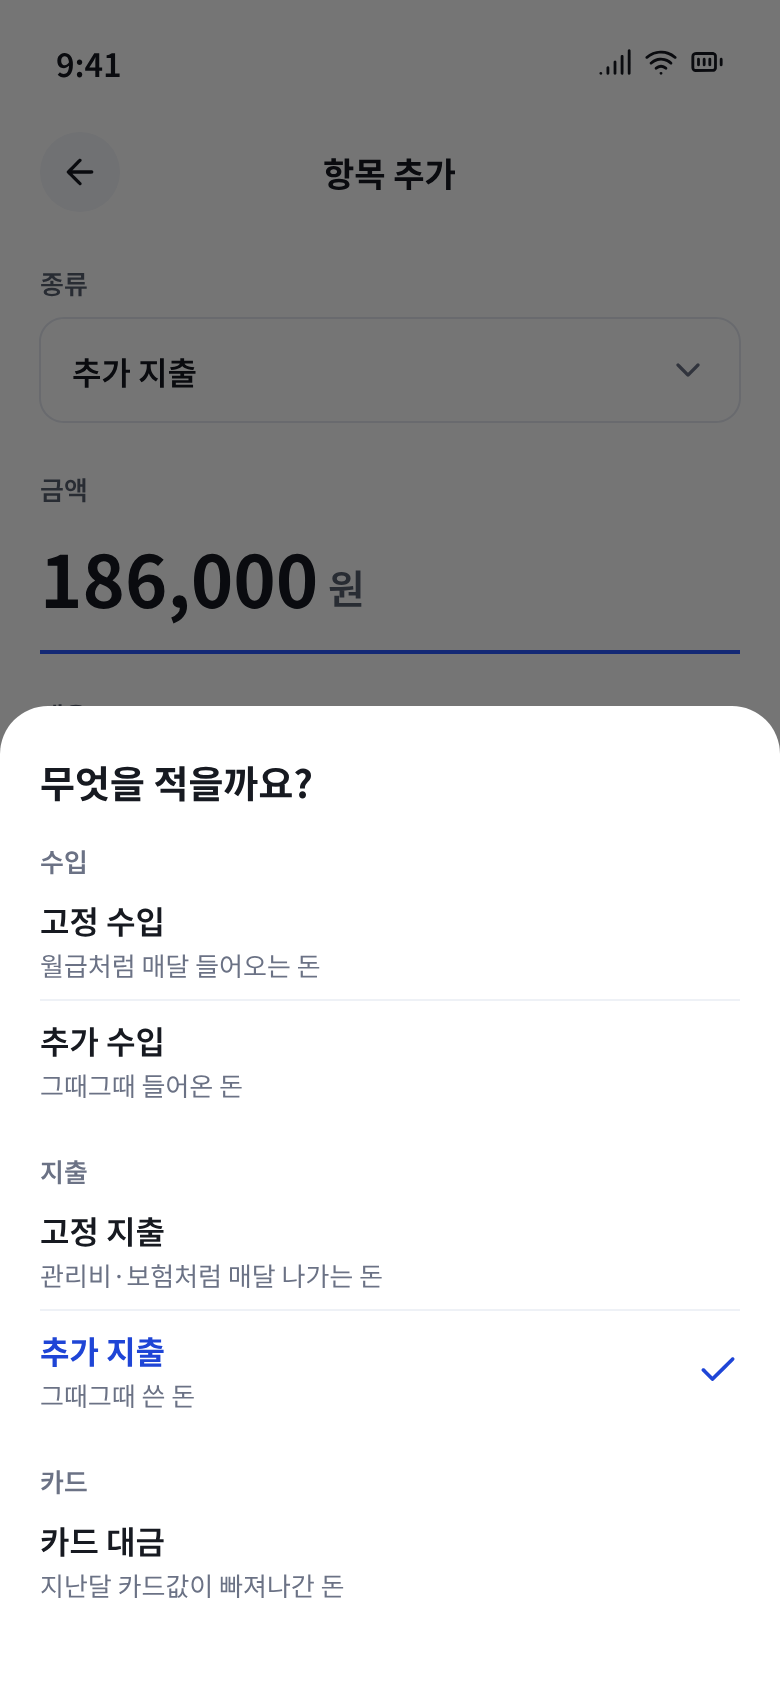
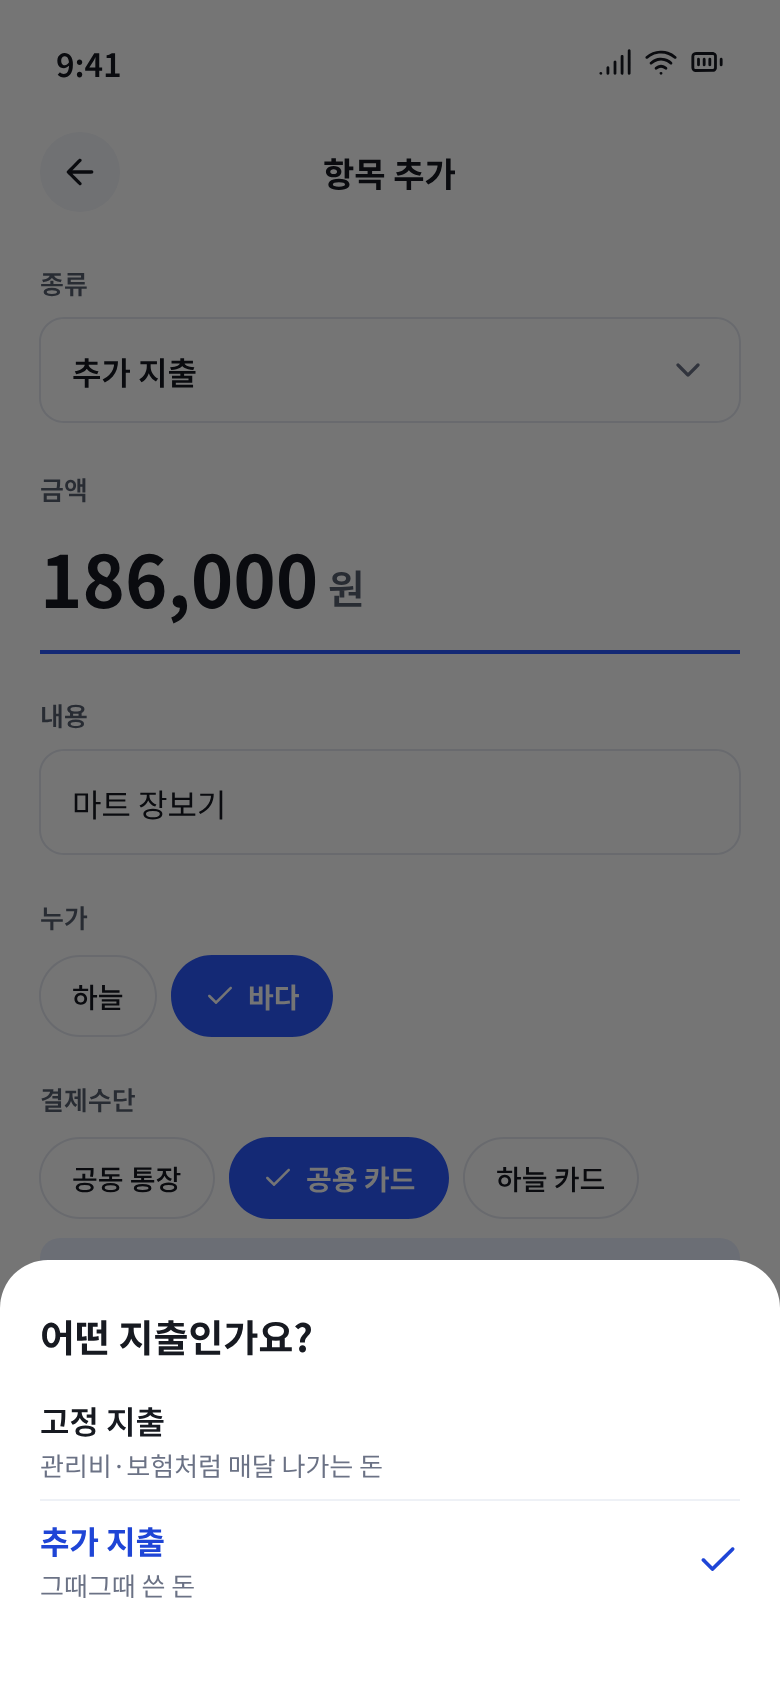
항목 추가의 예정일 시트 넘침과 종류 고르기를 고친다 (#46)
* 항목 추가의 예정일 시트 넘침과 종류 고르기를 고친다

- 매달 예정일 시트를 내용만큼 키우고 넘치면 스크롤해 작은 화면에서 마지막 줄이 넘치지 않게 한다
- 예정일 안내를 고정 수입은 들어오는 날, 고정 지출은 나가는 날로 나눈다
- 종류 고르기 시트는 연 칸(수입·지출)의 종류만 보여주고, 카드 대금은 종류 칸을 누를 수 없게 한다
- 입력 뒤 커서 스크롤이 끝날 때까지 기다리도록 테스트 도우미를 고친다

* 종류 고르기 시트 디자인(05c)을 지출 두 가지로 줄인다

- 제목을 '어떤 지출인가요?'로 바꾸고 수입·카드 묶음과 '지출' 묶음 이름을 지운다
- 밝은·어두운 PNG를 다시 내보낸다

diff --git a/test/feature/entries/entries_screen_test.dart b/test/feature/entries/entries_screen_test.dart
@@ -109,9 +109,11 @@ Future<void> tapInForm(WidgetTester tester, Key key) async {
   await settle(tester);
 }
 
+// 글자를 넣으면 그 칸이 커서를 보이게 스크롤한다. 끝날 때까지 그려야 다음 칸으로 옮긴 스크롤이 되돌려지지 않는다.
 Future<void> enterInForm(WidgetTester tester, Key key, String text) async {
   await showInForm(tester, key);
   await tester.enterText(inForm(find.byKey(key)), text);
+  await settle(tester);
 }
 
 Future<void> openAddForm(WidgetTester tester) async {
@@ -386,6 +388,67 @@ void main() {
       expect(added.entry.date, DateTime(2026, 10, 15));
       expect(added.entry.dueOn, DateTime(2026, 10, 31));
       expect(find.text('공동 통장 · 10/15 지급'), findsOneWidget);
+    });
+
+    testWidgets('종류 고르기 시트는 연 칸(수입·지출)의 종류만 보여준다', (tester) async {
+      await pumpEntries(tester);
+
+      await openAddForm(tester);
+      await tester.tap(find.byKey(const Key('entry-kind')));
+      await settle(tester);
+      expect(find.text('어떤 지출인가요?'), findsOneWidget);
+      expect(find.byKey(const Key('entry-kind-planned')), findsOneWidget);
+      expect(find.byKey(const Key('entry-kind-extra')), findsOneWidget);
+      expect(find.byKey(const Key('entry-kind-fixedIncome')), findsNothing);
+      expect(find.byKey(const Key('entry-kind-income')), findsNothing);
+      expect(find.byKey(const Key('entry-kind-cardBill')), findsNothing);
+      await tester.tap(find.byKey(const Key('entry-kind-extra')));
+      await settle(tester);
+      await tester.tap(find.byKey(const Key('entry-close')));
+      await settleRoute(tester);
+
+      await tester.tap(inList(find.byKey(const Key('entry-tab-income'))));
+      await settle(tester);
+      await openAddForm(tester);
+      await tester.tap(find.byKey(const Key('entry-kind')));
+      await settle(tester);
+      expect(find.text('어떤 수입인가요?'), findsOneWidget);
+      expect(find.byKey(const Key('entry-kind-fixedIncome')), findsOneWidget);
+      expect(find.byKey(const Key('entry-kind-income')), findsOneWidget);
+      expect(find.byKey(const Key('entry-kind-planned')), findsNothing);
+      expect(find.byKey(const Key('entry-kind-extra')), findsNothing);
+      expect(find.byKey(const Key('entry-kind-cardBill')), findsNothing);
+    });
+
+    testWidgets('카드 대금은 고를 종류가 하나뿐이라 종류 칸을 누를 수 없다', (tester) async {
+      await pumpEntries(tester);
+      await tester.tap(inList(find.byKey(const Key('entry-tab-cardBill'))));
+      await settle(tester);
+      await openAddForm(tester);
+
+      expect(
+        tester
+            .widget<InkWell>(inForm(find.byKey(const Key('entry-kind'))))
+            .onTap,
+        isNull,
+      );
+    });
+
+    testWidgets('작은 화면에서도 매달 예정일 시트가 넘치지 않고 말일까지 고를 수 있다', (tester) async {
+      await pumpEntries(tester, size: const Size(360, 640));
+      await openAddForm(tester);
+      await chooseEntryKind(tester, EntryKind.planned);
+      await showInForm(tester, const Key('entry-due-day'));
+      expect(inForm(find.text('매달 나가는 날을 골라 주세요')), findsOneWidget);
+
+      await tapInForm(tester, const Key('entry-due-day'));
+      expect(tester.takeException(), isNull);
+      await tester.ensureVisible(find.byKey(const Key('due-day-31')));
+      await settle(tester);
+      await tester.tap(find.byKey(const Key('due-day-31')));
+      await settle(tester);
+
+      expect(inForm(find.text('매월 말일')), findsOneWidget);
     });
 
     testWidgets('날짜는 한국어 달력에서 그달 안의 날로 고른다', (tester) async {
@@ -874,6 +937,8 @@ void main() {
         findsNothing,
       );
       expect(find.text('받은 날'), findsNothing);
+      // 고정 수입의 예정일은 돈이 들어오는 날이다.
+      expect(inForm(find.text('매달 들어오는 날을 골라 주세요')), findsOneWidget);
       await enterInForm(tester, const Key('entry-amount'), '3000000');
       await enterInForm(tester, const Key('entry-title'), '월급');
       await tapInForm(tester, const Key('entry-due-day'));

diff --git a/lib/feature/entries/entry_kind_sheet.dart b/lib/feature/entries/entry_kind_sheet.dart
@@ -1,5 +1,6 @@
 import 'package:flutter/material.dart';
 
+import '../../core/providers/providers.dart';
 import '../../domain/model/ledger_entries.dart';
 import '../../core/widget/entry_kind_label.dart';
 import '../../core/widget/keep_all.dart';
@@ -66,6 +67,8 @@ class EntryKindField extends StatelessWidget {
 }
 
 /// 종류를 고르는 시트를 띄우고 고른 종류를 돌려준다. 고르지 않고 닫으면 null.
+///
+/// [selected]가 보이는 칸(수입·지출)의 종류만 보여준다. 수입 칸에서 열었으면 수입 중에서만 고른다.
 Future<EntryKind?> showEntryKindSheet(
   BuildContext context, {
   required EntryKind selected,
@@ -76,21 +79,23 @@ Future<EntryKind?> showEntryKindSheet(
   builder: (_) => _EntryKindSheet(selected: selected),
 );
 
-/// 종류 고르기 시트(design/app/05c). 수입·지출·카드로 묶어 이름과 짧은 설명을 보여준다.
+/// 종류 고르기 시트의 제목. 카드 대금 칸은 고를 것이 하나뿐이라 시트를 띄우지 않는다.
+String _sheetTitle(EntryTab tab) => switch (tab) {
+  EntryTab.income => '어떤 수입인가요?',
+  EntryTab.expense => '어떤 지출인가요?',
+  EntryTab.cardBill => '무엇을 적을까요?',
+};
+
+/// 종류 고르기 시트(design/app/05c). [selected]가 보이는 칸의 종류만 이름과 짧은 설명으로 보여준다.
 class _EntryKindSheet extends StatelessWidget {
   const _EntryKindSheet({required this.selected});
 
   final EntryKind selected;
 
-  static const _groups = [
-    ('수입', [EntryKind.fixedIncome, EntryKind.income]),
-    ('지출', [EntryKind.planned, EntryKind.extra]),
-    ('카드', [EntryKind.cardBill]),
-  ];
-
   @override
   Widget build(BuildContext context) {
     final theme = Theme.of(context);
+    final tab = EntryTab.of(selected);
     return SafeArea(
       child: SingleChildScrollView(
         padding: const EdgeInsets.fromLTRB(20, 0, 20, 20),
@@ -99,22 +104,17 @@ class _EntryKindSheet extends StatelessWidget {
           children: [
             Semantics(
               header: true,
-              child: Text('무엇을 적을까요?', style: theme.textTheme.titleMedium),
+              child: Text(_sheetTitle(tab), style: theme.textTheme.titleMedium),
             ),
-            for (final (group, kinds) in _groups) ...[
-              Padding(
-                padding: const EdgeInsets.only(top: 14, bottom: 2),
-                child: Text(group, style: theme.textTheme.labelMedium),
+            const SizedBox(height: 8),
+            for (final (index, kind) in tab.kinds.indexed) ...[
+              if (index > 0)
+                Divider(height: 1, color: theme.colorScheme.outlineVariant),
+              _KindOption(
+                key: Key('entry-kind-${kind.name}'),
+                kind: kind,
+                selected: kind == selected,
               ),
-              for (final (index, kind) in kinds.indexed) ...[
-                if (index > 0)
-                  Divider(height: 1, color: theme.colorScheme.outlineVariant),
-                _KindOption(
-                  key: Key('entry-kind-${kind.name}'),
-                  kind: kind,
-                  selected: kind == selected,
-                ),
-              ],
             ],
           ],
         ),

diff --git a/lib/feature/entries/due_day_sheet.dart b/lib/feature/entries/due_day_sheet.dart
@@ -6,18 +6,21 @@ import '../../core/widget/keep_all.dart';
 /// 예정일 이름. 31일은 '말일'이다. 예: '25일', '말일'
 String dueDayLabel(int dueDay) => dueDay == lastDueDay ? '말일' : '$dueDay일';
 
-/// 고정 지출의 매달 예정일 칸. 누르면 날짜를 고르는 시트([showDueDaySheet])가 뜬다.
+/// 고정 지출·고정 수입의 매달 예정일 칸. 누르면 날짜를 고르는 시트([showDueDaySheet])가 뜬다.
 ///
+/// [income]이면 돈이 들어오는 날, 아니면 나가는 날로 안내한다.
 /// 칸 전체가 하나의 버튼이라 이름표와 고른 값을 함께 읽게 직접 알린다.
 class DueDayField extends StatelessWidget {
   const DueDayField({
     required this.dueDay,
+    required this.income,
     required this.errorText,
     required this.onTap,
     super.key,
   });
 
   final int? dueDay;
+  final bool income;
   final String? errorText;
   final VoidCallback? onTap;
 
@@ -45,7 +48,7 @@ class DueDayField extends StatelessWidget {
             child: InputDecorator(
               isEmpty: text == null,
               decoration: InputDecoration(
-                hintText: '매달 빠져나가는 날을 골라 주세요',
+                hintText: income ? '매달 들어오는 날을 골라 주세요' : '매달 나가는 날을 골라 주세요',
                 errorText: errorText,
                 enabled: onTap != null,
                 suffixIcon: const ExcludeSemantics(
@@ -68,6 +71,8 @@ Future<int?> showDueDaySheet(BuildContext context, {required int? selected}) =>
     showModalBottomSheet<int>(
       context: context,
       showDragHandle: true,
+      // 기본 높이(화면의 9/16)로는 작은 화면에서 마지막 줄이 넘쳐서, 내용만큼 키우고 넘치면 스크롤한다.
+      isScrollControlled: true,
       builder: (_) => _DueDaySheet(selected: selected),
     );
 
@@ -81,10 +86,9 @@ class _DueDaySheet extends StatelessWidget {
   Widget build(BuildContext context) {
     final theme = Theme.of(context);
     return SafeArea(
-      child: Padding(
+      child: SingleChildScrollView(
         padding: const EdgeInsets.fromLTRB(20, 0, 20, 20),
         child: Column(
-          mainAxisSize: MainAxisSize.min,
           crossAxisAlignment: CrossAxisAlignment.stretch,
           spacing: 6,
           children: [

diff --git a/lib/feature/entries/entry_form_screen.dart b/lib/feature/entries/entry_form_screen.dart
@@ -239,9 +239,12 @@ class _EntryFormScreenState extends ConsumerState<EntryFormScreen> {
     );
     final enabled = !state.busy;
     final fields = <Widget>[
+      // 종류는 연 칸(수입·지출) 안에서만 바꾼다. 카드 대금처럼 고를 것이 하나뿐이면 누를 수 없다.
       EntryKindField(
         kind: kind,
-        onTap: isEdit || !enabled ? null : () => _pickKind(kind),
+        onTap: isEdit || !enabled || EntryTab.of(kind).kinds.length < 2
+            ? null
+            : () => _pickKind(kind),
       ),
       WonAmountField(
         controller: _amount,
@@ -351,6 +354,7 @@ class _EntryFormScreenState extends ConsumerState<EntryFormScreen> {
       if (fixed)
         DueDayField(
           dueDay: state.dueDay ?? template?.dueDay,
+          income: kind == EntryKind.fixedIncome,
           errorText: errorOf({EntryProblem.dueDayMissing}),
           onTap: enabled
               ? () => _pickDueDay(state.dueDay ?? template?.dueDay)

diff --git a/lib/core/providers/providers.dart b/lib/core/providers/providers.dart
@@ -160,6 +160,10 @@ enum EntryTab {
   /// 이 칸에 보이는 종류. 보이는 순서다.
   final List<EntryKind> kinds;
 
+  /// [kind]가 보이는 칸.
+  static EntryTab of(EntryKind kind) =>
+      values.firstWhere((tab) => tab.kinds.contains(kind));
+
   /// + 버튼이 이 칸에서 여는 종류. 수입·지출 칸은 자주 적는 추가 수입·추가 지출이다(입력 화면의 종류 칸에서 바꾼다).
   EntryKind get addKind => switch (this) {
     EntryTab.income => EntryKind.income,
